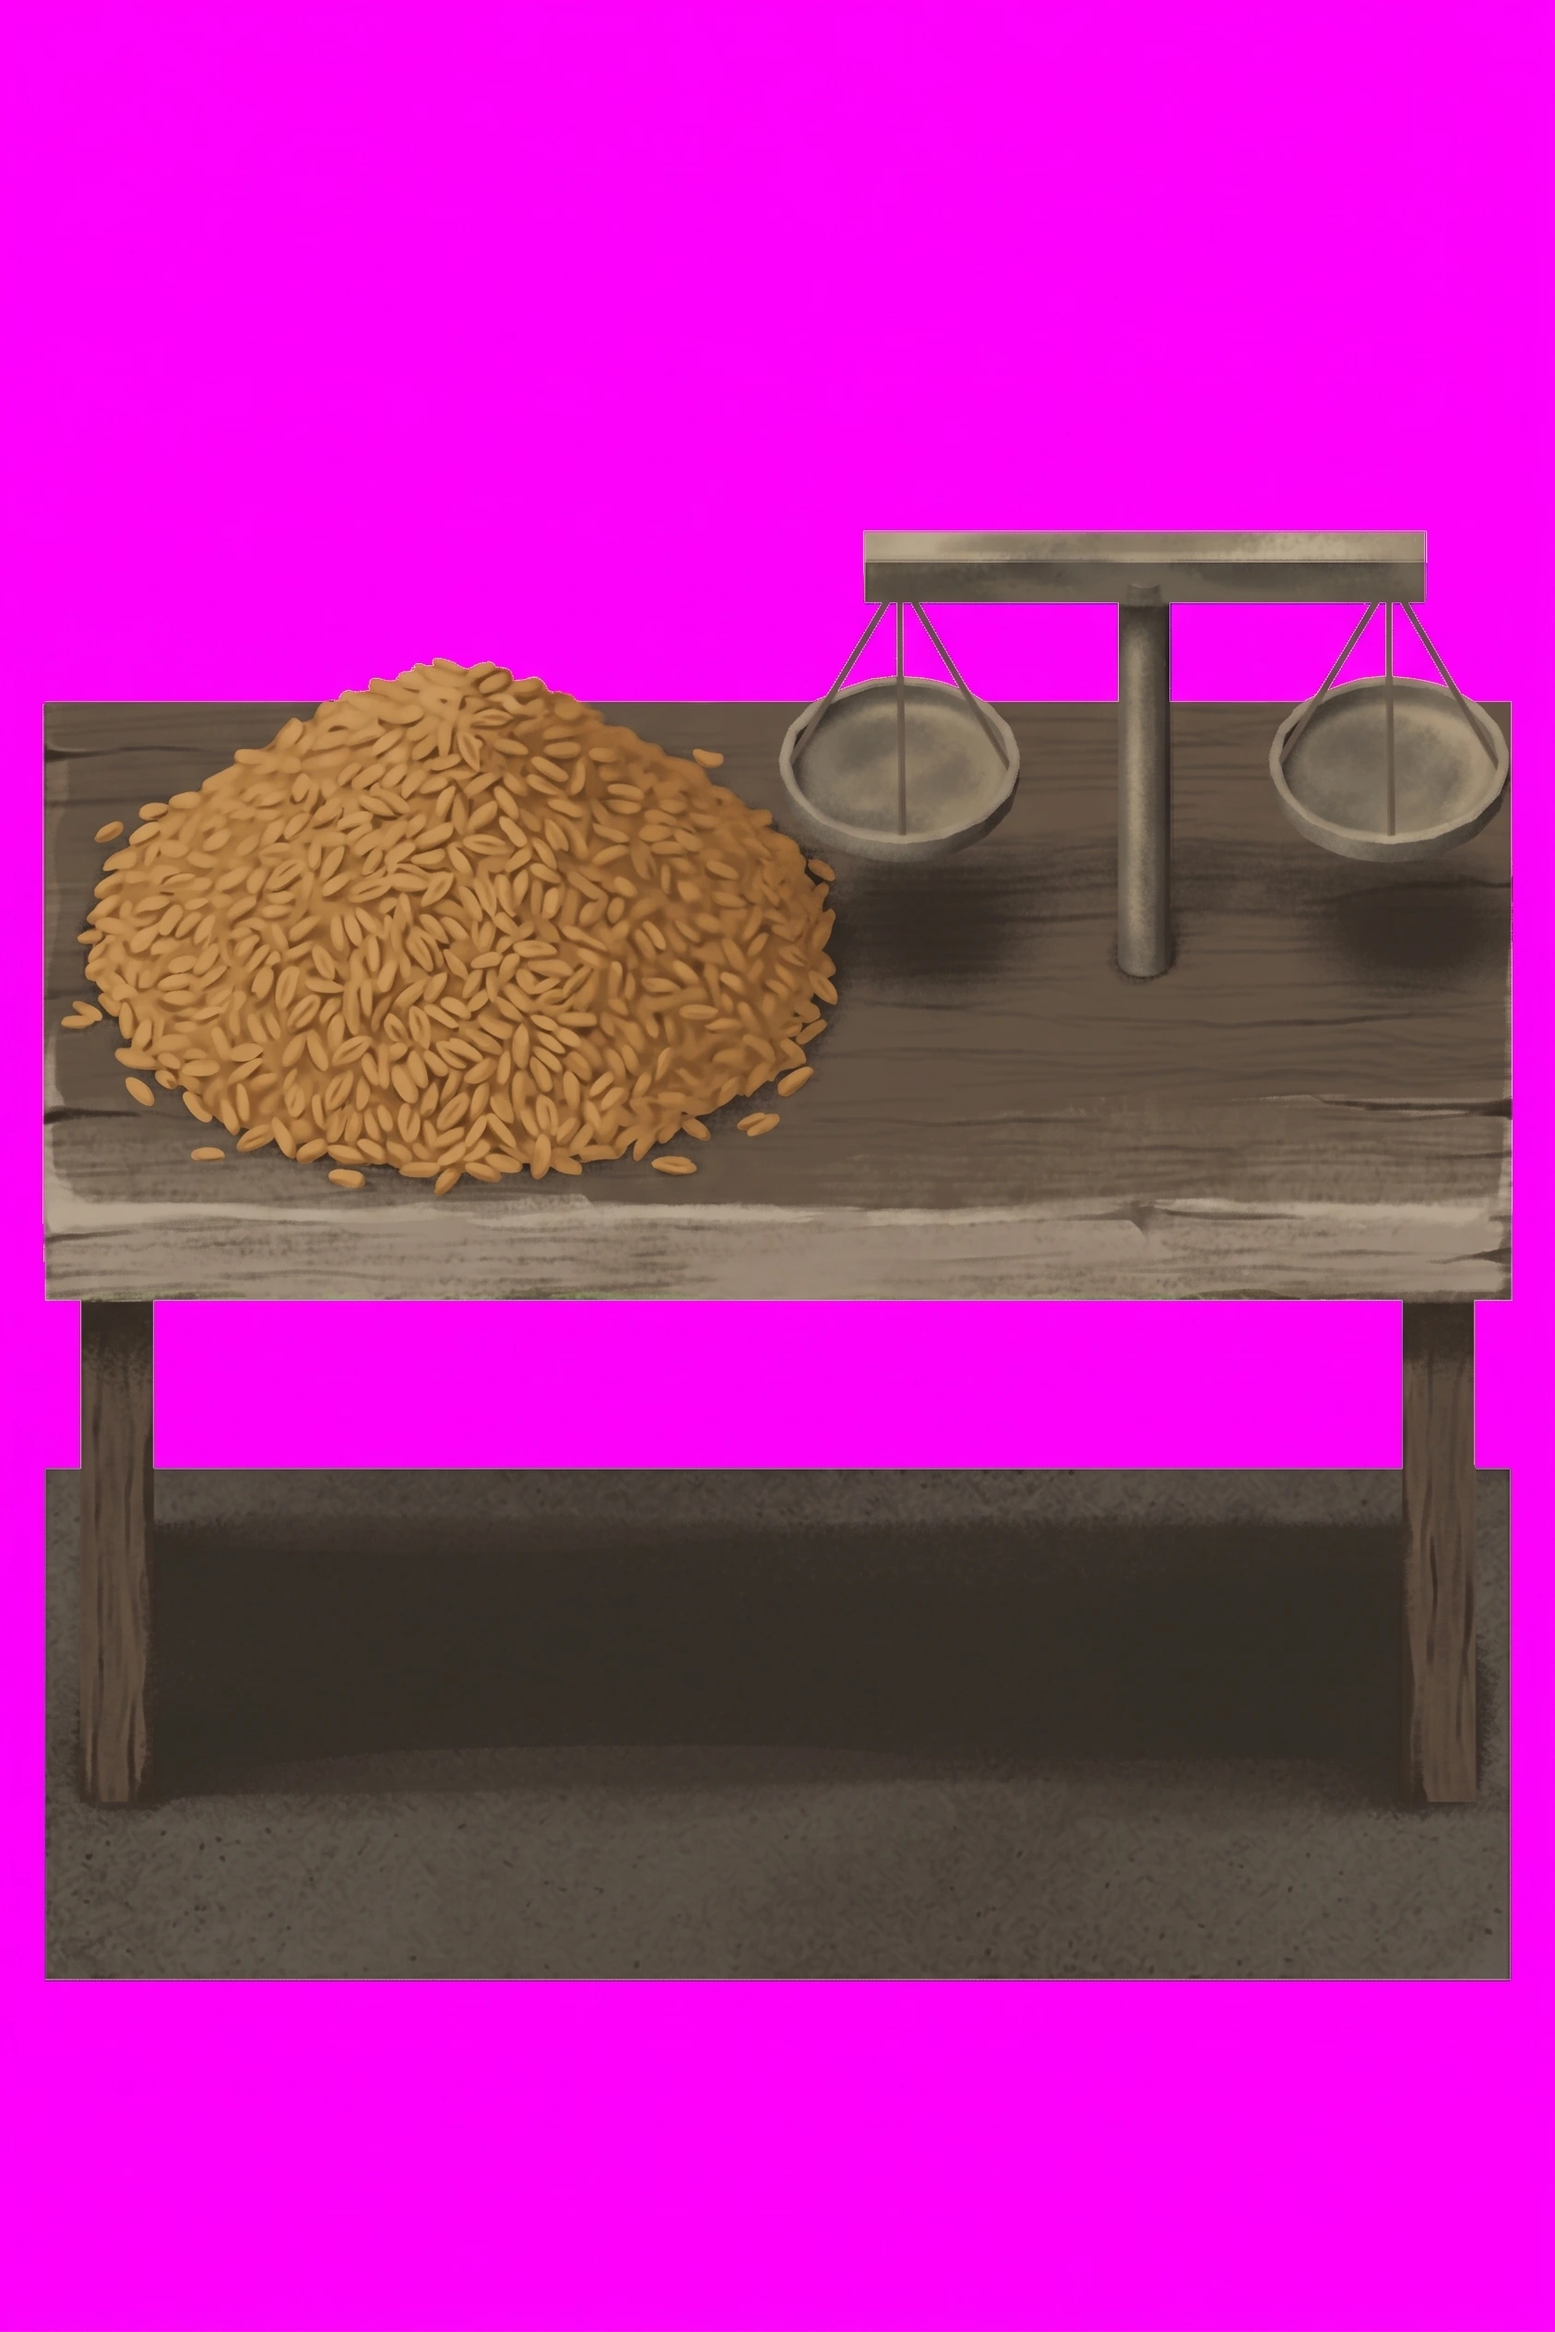
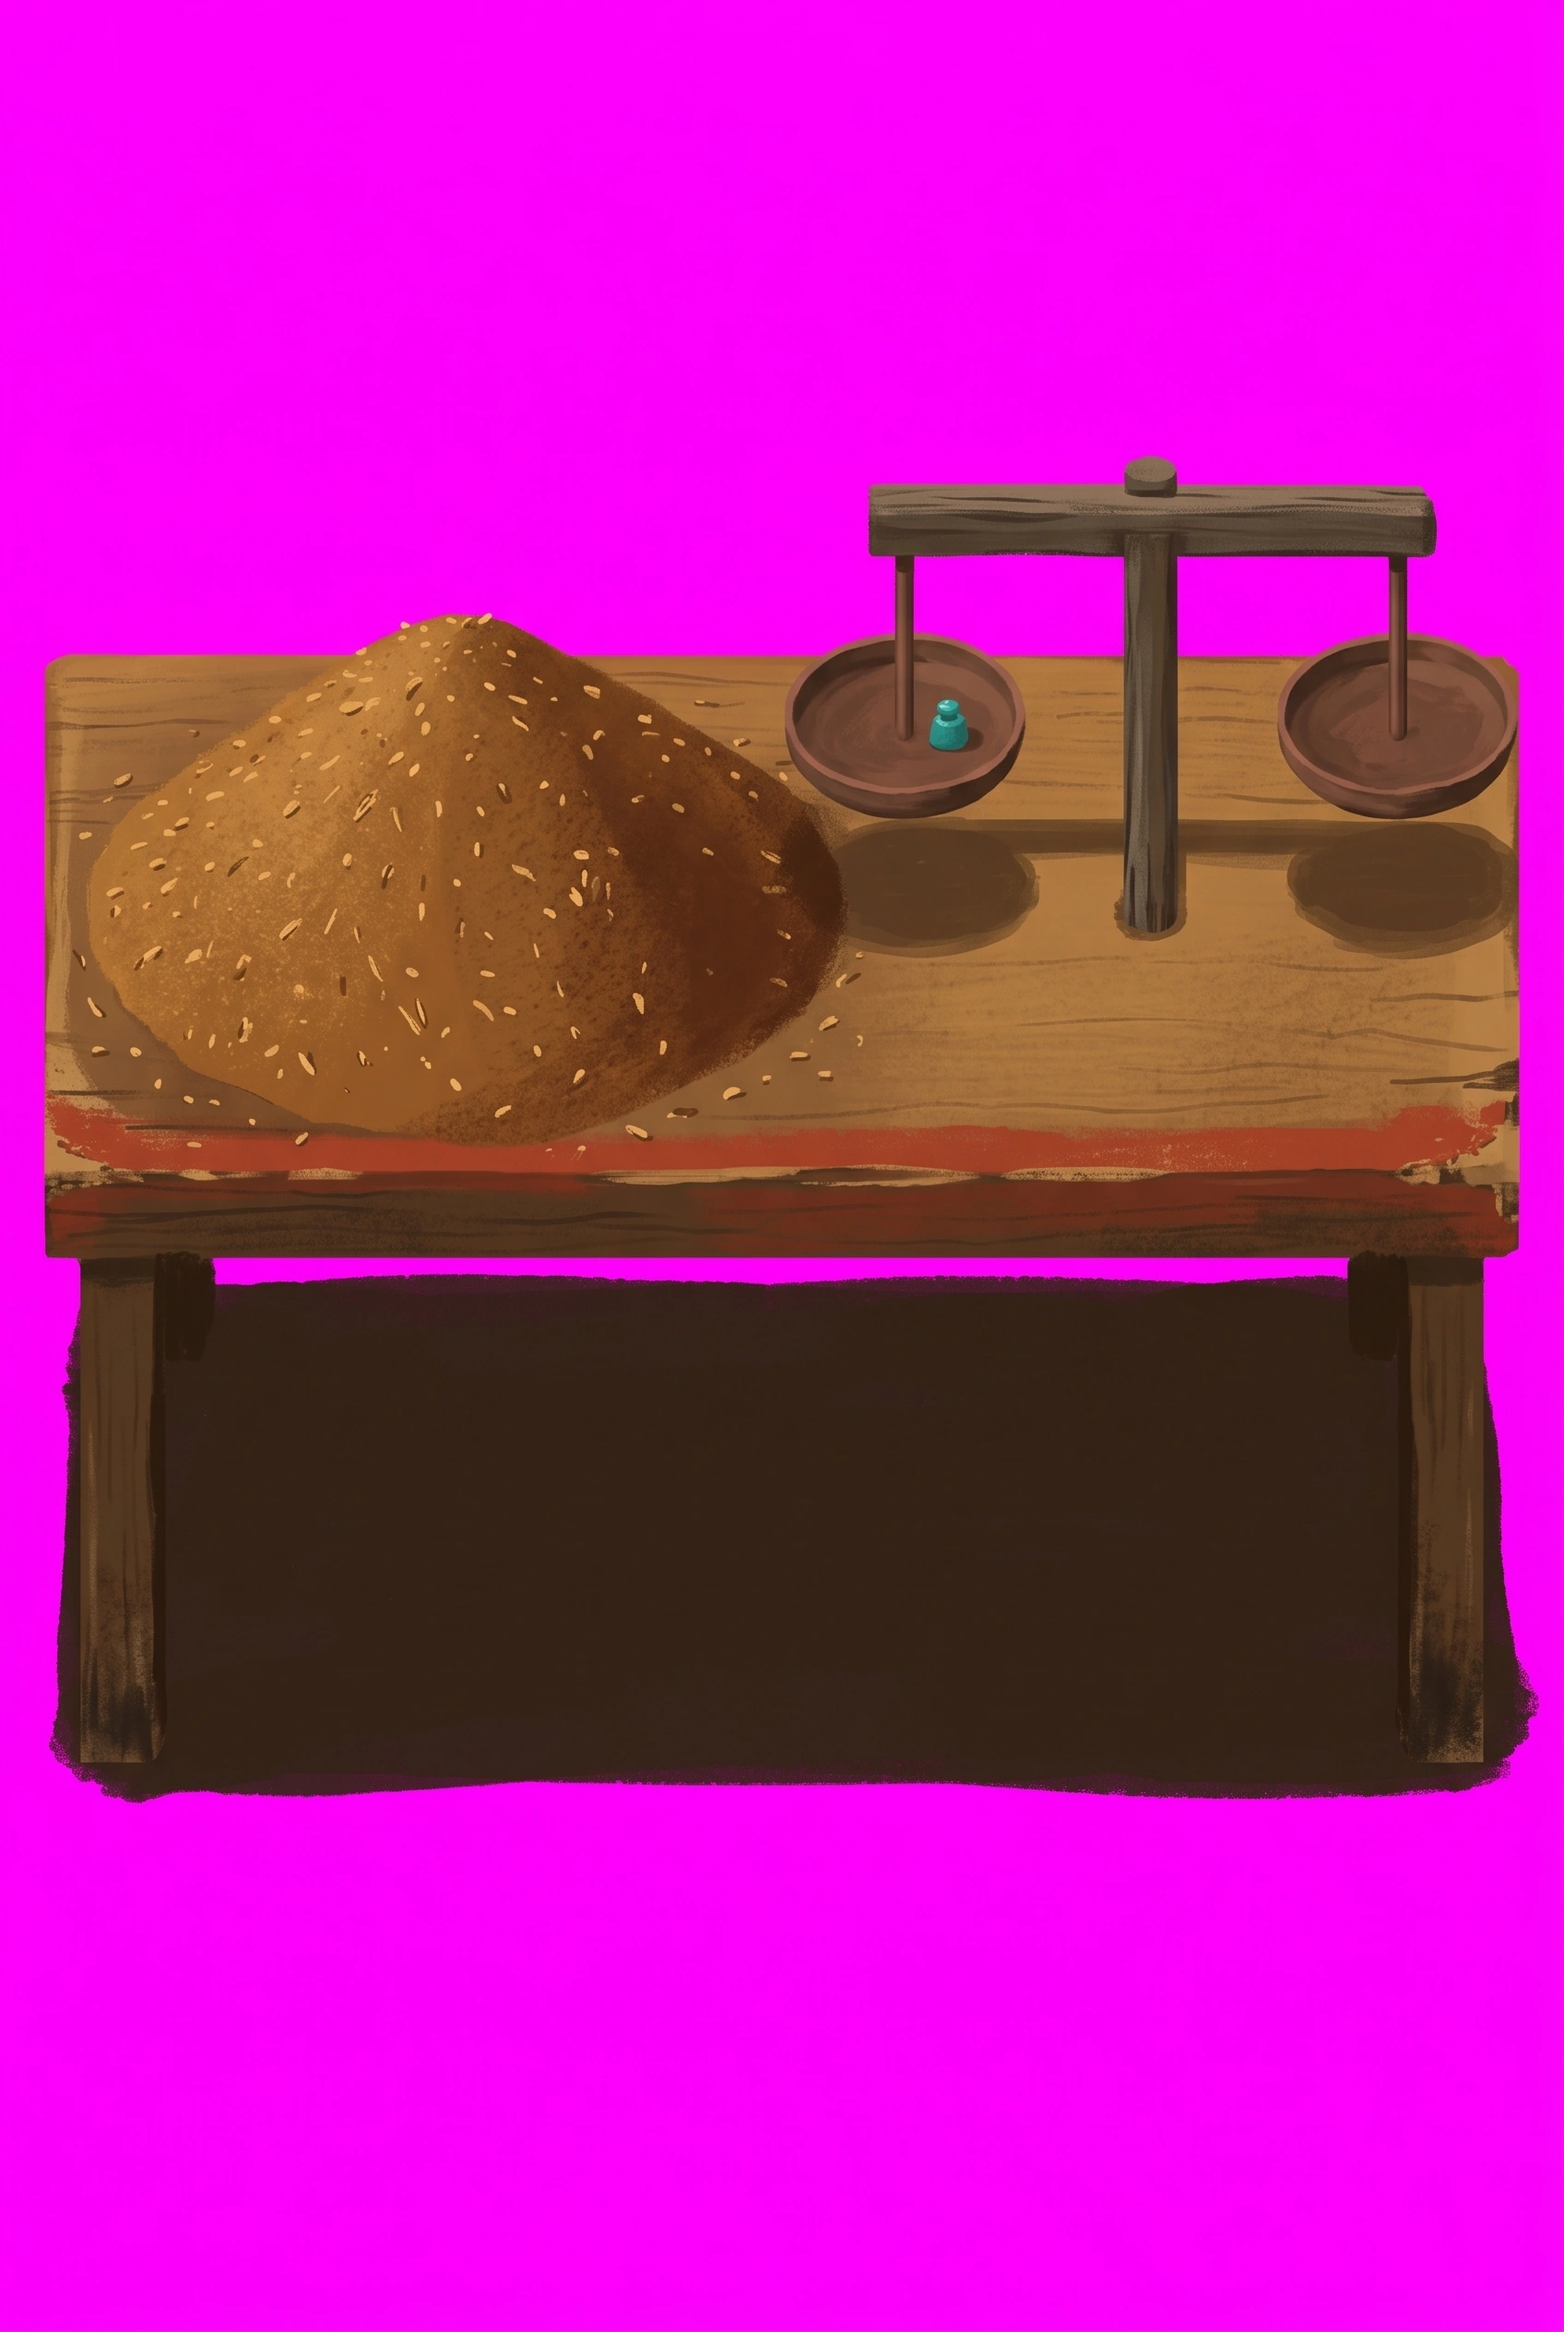
feat: starter's market table repainted, grain and a balance, 35 L* off the floor
Claude-Session: https://claude.ai/code/session_01NQk9Q1WZoZfDzoRioyXby1

diff --git a/docs/instructions/repaint-queue.md b/docs/instructions/repaint-queue.md
@@ -193,47 +193,6 @@ the shabti is `--mesh=art/masters/meshes/shabti.glb`. `starter-plain.png` is the
 `art/masters/surfaces/starter-floor.webp` scaled to 1024, the crop every `<tier>-plain.png` is. The
 tally board has no scaffold: it attaches its own master.
 
-### `starter/offeringTable` — a market table with grain and a balance
-
-**Attach:**
-
-1. `~/tile-previews/market-starter.png` — the scaffold
-2. `~/tile-previews/starter-plain.png` — the material reference
-
-```
-A wall-less product shot of a single object, painted in flat matte gouache, no background, on pure magenta #FF00FF. Portrait, two units wide by three tall, exactly as the reference. Do not re-compose it into a square. Paint over the reference image itself.
-
-The object: a merchant's MARKET TABLE. The flat slab on four legs is the TABLETOP. The big mound on the
-left of it is a heap of GRAIN. The upright post on the right with a beam across its top and a shallow pan
-hanging from each end is a BALANCE SCALE. The dark space under the tabletop is the shade under the table.
-
-The table is old timber, honey-brown #9a6a3c on its top, #5e3a1e on its front edge and legs, scuffed
-darker where goods are dragged. A band of red ochre #b8452c runs along the front edge, worn at the
-corners. The grain is warm golden-brown, its shadowed side #7e3a1a, never pale straw. The balance is dark
-wood with two copper-brown pans; a small turquoise #2a9d8f faience weight sits in one pan. The shade
-under the table is deep umber #3a2a1c.
-
-IT STANDS ON A PALE FLOOR AND MUST READ DARK ON IT. The floor is pale limestone, #d8c8a8. The object as a
-whole is clearly DARKER and more colourful than that: nothing on it larger than a fingertip is lighter
-than terracotta #c0612f, and only the turquoise #2a9d8f may be, in small touches. Its base, its underside
-and every part nearest the floor are its darkest, deep umber #3a2a1c. Nothing on it is white, cream,
-bleached, pale straw or whitewash — a pale part vanishes into the floor.
-
-Keep every edge, every proportion and every silhouette exactly as in the reference image — do not move, resize, straighten, add, remove or restyle any part of it, and do not change the angle it stands at. Paint only material and wear.
-
-The shadow at its foot is part of the picture: paint it #3A2A1C, with no pink and no purple in it at all.
-
-No highlights, no gloss, no rim light, no ground plane, no reflections. Matte throughout, as if lit by one dull lamp. Merchant's storehouse: fired terracotta #c0612f and #7e3a1a, honey-brown timber #9a6a3c and #5e3a1e, red ochre paint #b8452c, turquoise faience #2a9d8f. Saturated and warm — colour that reads from across the room — and never as pale as the floor it stands on.
-```
-
-Then, once the return is in `~/Downloads`:
-
-```sh
-scaffold market
-yarn import-tile art/masters/props/starter/offeringTable.webp --tier=starter --name=offeringTable --slot=prop \
-  --filter=smooth --mask="$OBJ" --seat="$SHADOW" --saturation=1.3
-```
-
 ### `starter/offeringTable-2` — baskets of grain on the floor, the market's second drawing
 
 **Attach:**
